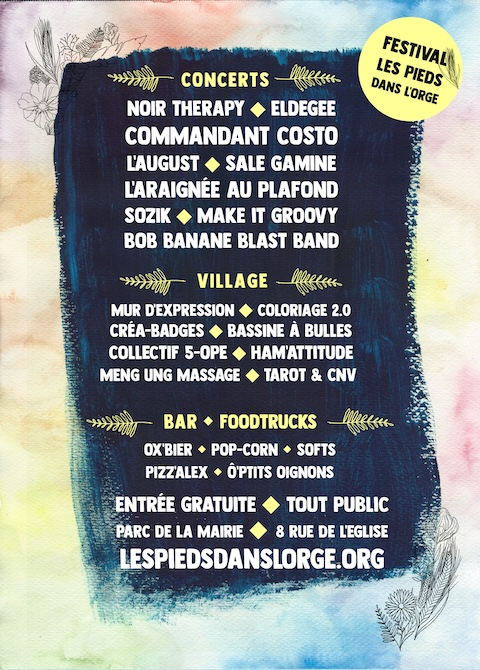
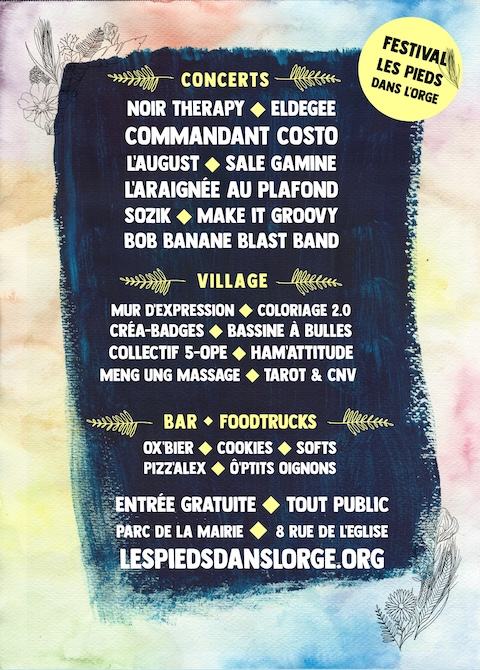
suite maj 2026

Changed region(s): [[0.2812, 0.6567, 0.7188, 0.7164]]

diff --git a/public/index.html b/public/index.html
@@ -60,10 +60,10 @@
 
         <section id="festival">
             <h2><span>Le Festival</span></h2>
-            <p>Depuis 2018, l'association <strong>AD'HOC</strong> propose à <strong>Épinay-sur-Orge</strong> un festival musiques actuelles gratuit et familial: <strong>Les Pieds dans l'Orge</strong></strong>.</p>
-            <p>Après les éditions 2018 et 2019 en plein air, une édition 2020 confinée "on the web", le festival a connu des éditions en 2023 et 2024. Nous vous donnons à nouveau rendez-vous en 2026 pour le retour du Festival ! Cet événement garde le même esprit que les éditions précédentes: les familles y sont les bienvenues pour partager un brin de vie musicale avec les artistes.</p>
-            <p>Le <strong>Samedi 16 mai 2026</strong>, de 18h à 0h30 sur au <strong>parc de la mairie</strong> (nouveau lieu !) joueront en alternance sur <strong>2 scènes</strong> 10 groupes de tous styles dont vous pouvez consulter la programmation ci-dessous.</p>
-            <p>Le public pourra également flâner dans le festival où il y trouvera atelier de dessins et confection de badges, expo art plastique et tatouage ephémère, chill zone, foodtrucks sucrés/salés, et une buvette (bière locale, softs en tous genres).</p>
+            <p>Depuis 2018, l'association <strong>AD'HOC</strong> propose à <strong>Épinay-sur-Orge</strong> un festival de musiques actuelles gratuit et familial : <strong>Les Pieds dans l'Orge</strong></strong>.</p>
+            <p>Après les éditions 2018 et 2019 en plein air, une édition 2020 confinée "on the web", le festival a connu des éditions en 2023 et 2024. Nous vous donnons à nouveau rendez-vous en 2026 pour le retour du Festival ! Cet événement garde le même esprit que les éditions précédentes : les familles y sont les bienvenues pour partager un brin de vie musicale avec les artistes.</p>
+            <p>Le <strong>Samedi 16 mai 2026</strong>, de 18h à 0h30 au <strong>parc de la mairie</strong> (nouveau lieu !) joueront en alternance sur <strong>2 scènes</strong> 10 groupes de tous styles dont vous pouvez consulter la programmation ci-dessous.</p>
+            <p>Le public pourra également flâner dans le festival où il y trouvera atelier de dessins et confection de badges, expo art plastique, chill zone, foodtrucks sucrés/salés, et une buvette (bière locale, softs en tous genres).</p>
             <p>Soyez au rendez-vous !</p>
         </section>
 
@@ -77,7 +77,7 @@
 
             <h3 id="bar-foodtrucks">Bar / Foodtrucks</h3>
             <ul>
-              <li><strong>BUVETTE</strong> : Bierre Pression (<a href="https://brasserie-ox.fr">Ox’Bier, brasserie artisanale de Marcoussis</a>), Softs au verre, Pop-Corn</li>
+              <li><strong>BUVETTE</strong> : Bierre Pression (<a href="https://brasserie-ox.fr">Ox’Bier, brasserie artisanale de Marcoussis</a>), Softs au verre, Cookies</li>
               <li><strong><a href="https://www.facebook.com/opofood">Ô’PTITS OIGNONS</a>:</strong> Burgers frais, street food</li>
               <li><strong><a href="https://www.camion-pizzalex.fr">Pizz’Alex</a></strong> : Restauration Pizzas</li>
             </ul>
@@ -105,8 +105,8 @@
             <p>C’est plus long ...</p>
             <h3><span>Plan du site</span></h3>
             <div class="text-center">
-                <a class="glightbox" href="/img/plan-du-site-2026.jpg?20260301">
-                  <img class="d-inline-block px-3 py-3 bg-white" src="/img/plan-du-site-2026.jpg?20260301" alt="Plan du site 2026" />
+                <a class="glightbox" href="/img/plan-du-site-2026.svg?20260304">
+                  <img class="d-inline-block px-3 py-3 bg-white" src="/img/plan-du-site-2026.svg?20260304" alt="Plan du site 2026" />
                 </a>
             </div>
         </section>
@@ -116,7 +116,7 @@
             <p>Cet événement ne pourrait pas se dérouler sans nos partenaires:</p>
             <ul>
               <li>La <a href="http://www.ville-epinay-sur-orge.fr"><strong>Mairie d’Épinay-sur-Orge</strong></a> bien sur, qui nous prête pour l’occasion ce magnifique lieu connu des spinoliens pour accueillir la fête des Brandous. </li>
-              <li>La <a href="https://www.facebook.com/clubadosPAJ.VSO/"><strong>PAJ de Villemoisson sur Orge</strong></a>, grands organisateurs du <a href="http://fetestival.adhocmusic.com">Fet’Estival</a> depuis plus de 15 ans, et qui nous offrent leur précieuse aide technique et logistique.</li>
+              <li>La <a href="https://www.facebook.com/clubadosPAJ.VSO/"><strong>PAJ de Villemoisson sur Orge</strong></a>, grands organisateurs du <a href="https://fetestival.fr">Fet’Estival</a> depuis plus de 15 ans, et qui nous offrent leur précieuse aide technique et logistique.</li>
               <li>L’association <a href="https://www.villemoisson-en-fete.com"><strong>Villemoisson En Fête</strong></a>, pour le soutien logistique</li>
               <li>La <a href="https://www.mjcvillebon.org"><strong>MJC Boby Lapointe</strong></a> de Villebon-sur-Yvette qui soutient nos actions depuis près de 5 ans</li>
             </ul>
@@ -153,7 +153,7 @@
     <script src="/library/jquery@3.7.1/jquery.min.js"></script>
     <script src="/library/glightbox@3.3.0/glightbox.min.js"></script>
     <script src="/library/bootstrap@5.3.8/bootstrap.bundle.min.js"></script>
-    <script src="/js/app.mjs?20260301" type="module"></script>
+    <script src="/js/app.mjs?20260304" type="module"></script>
 </body>
 
 </html>
